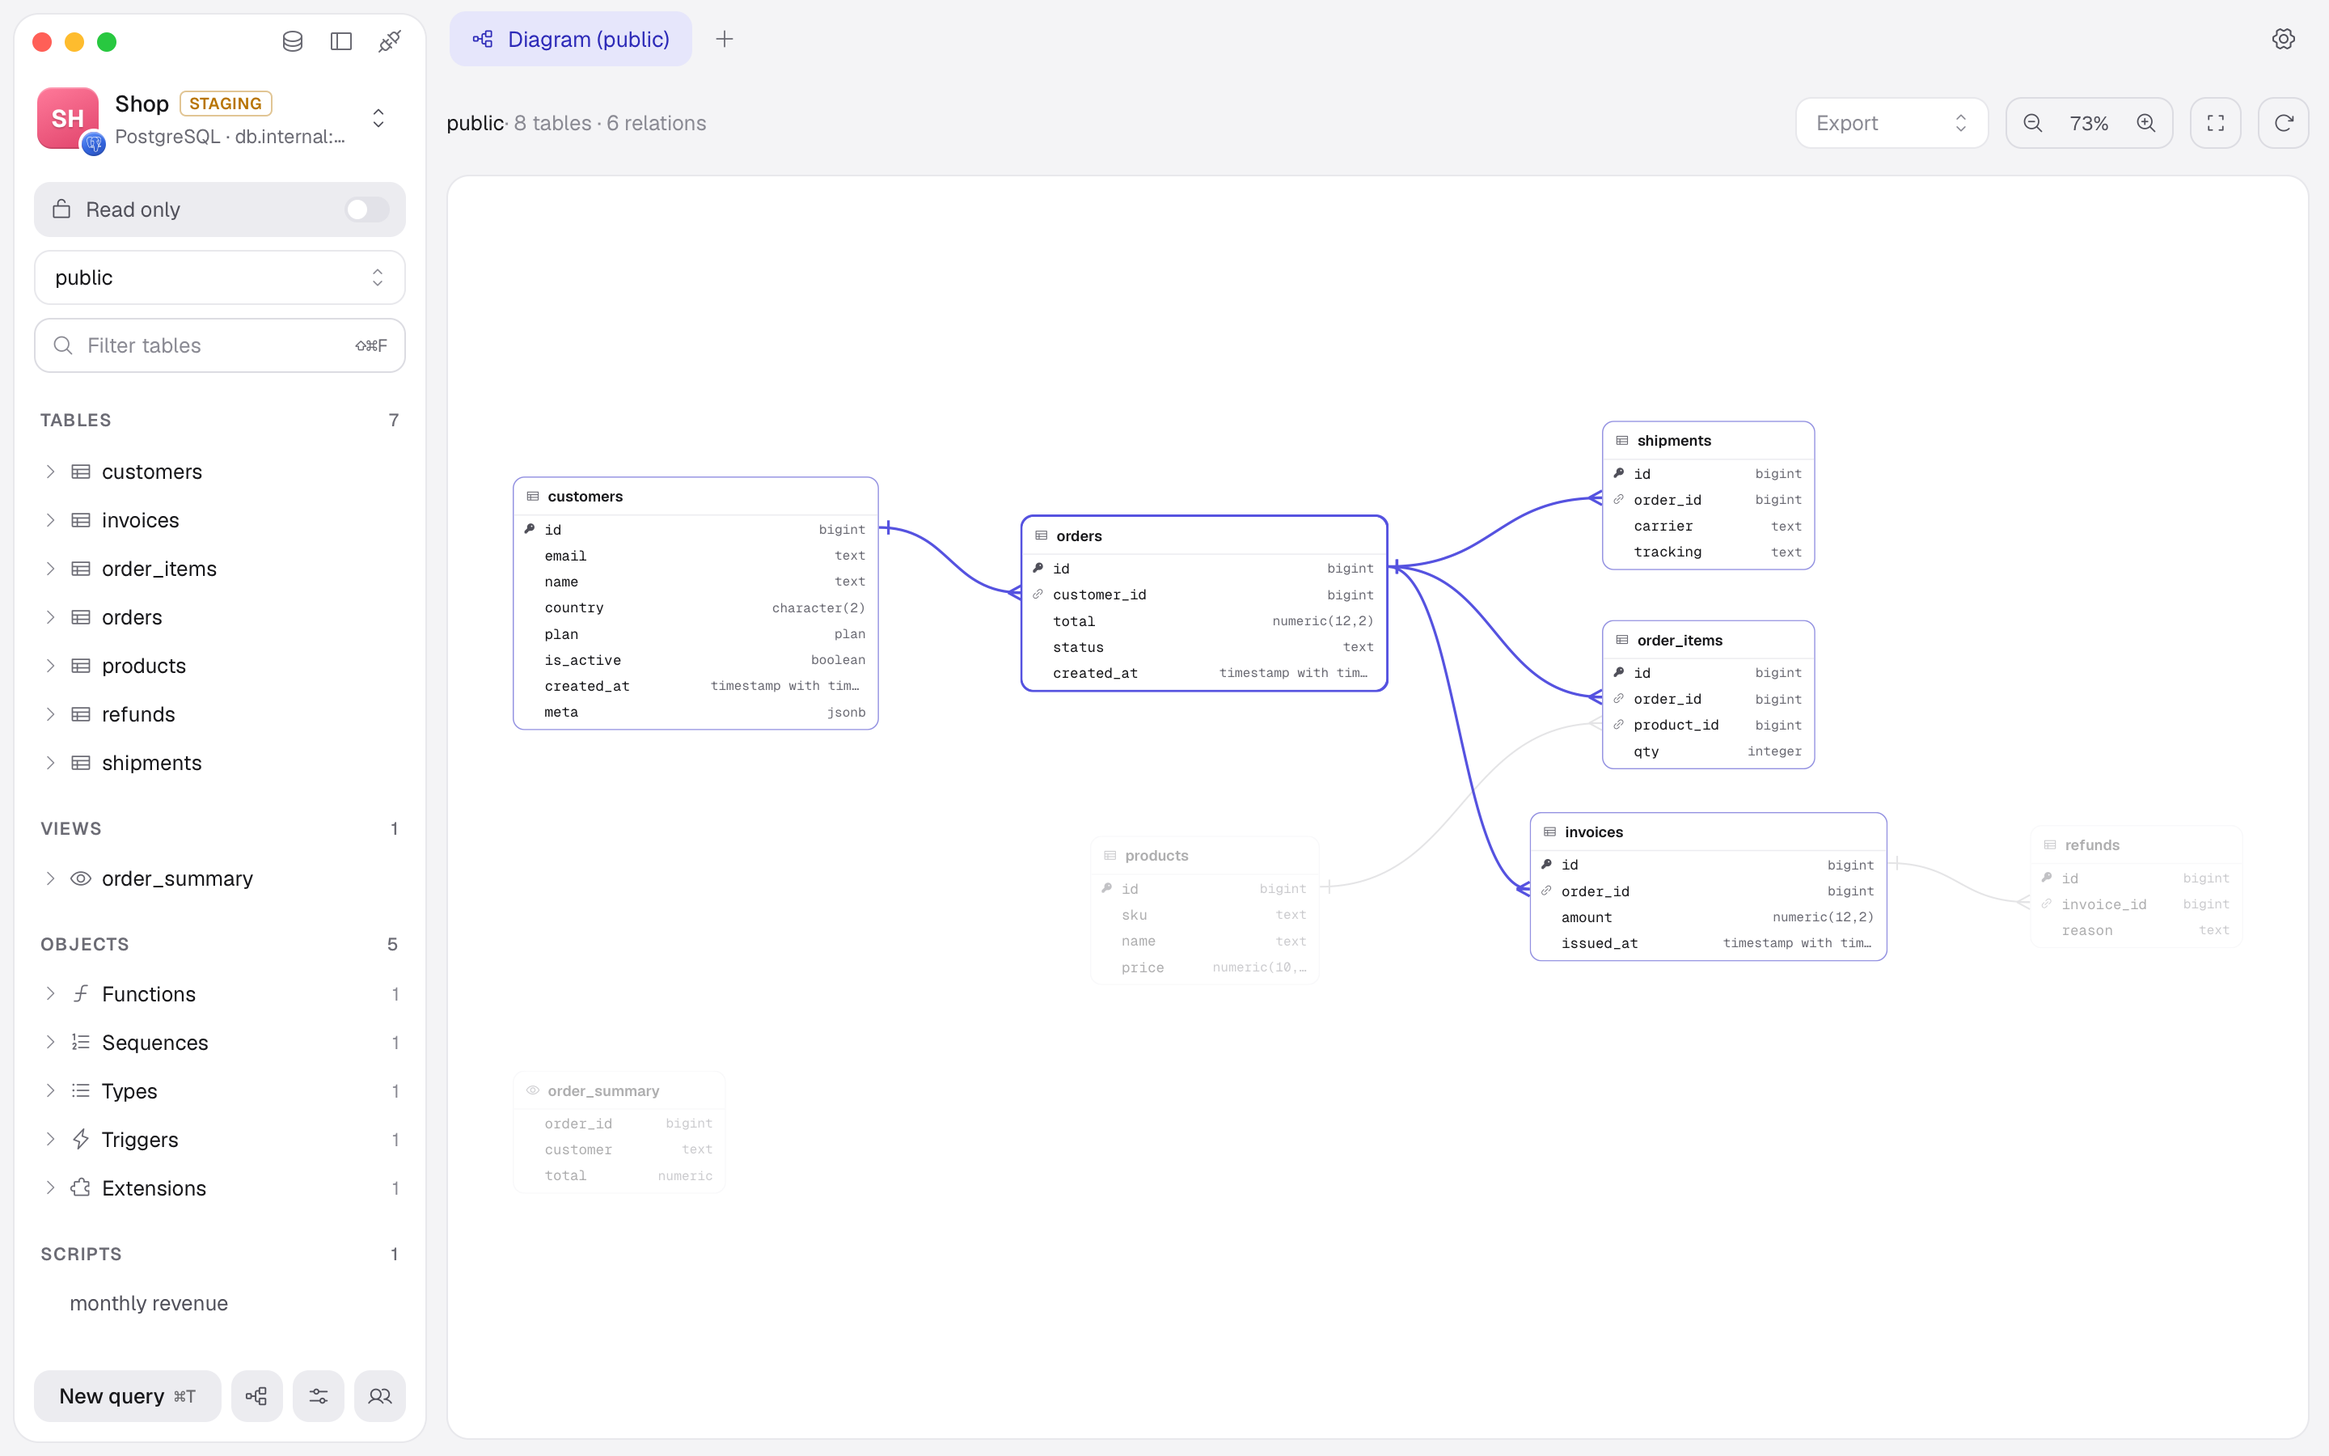
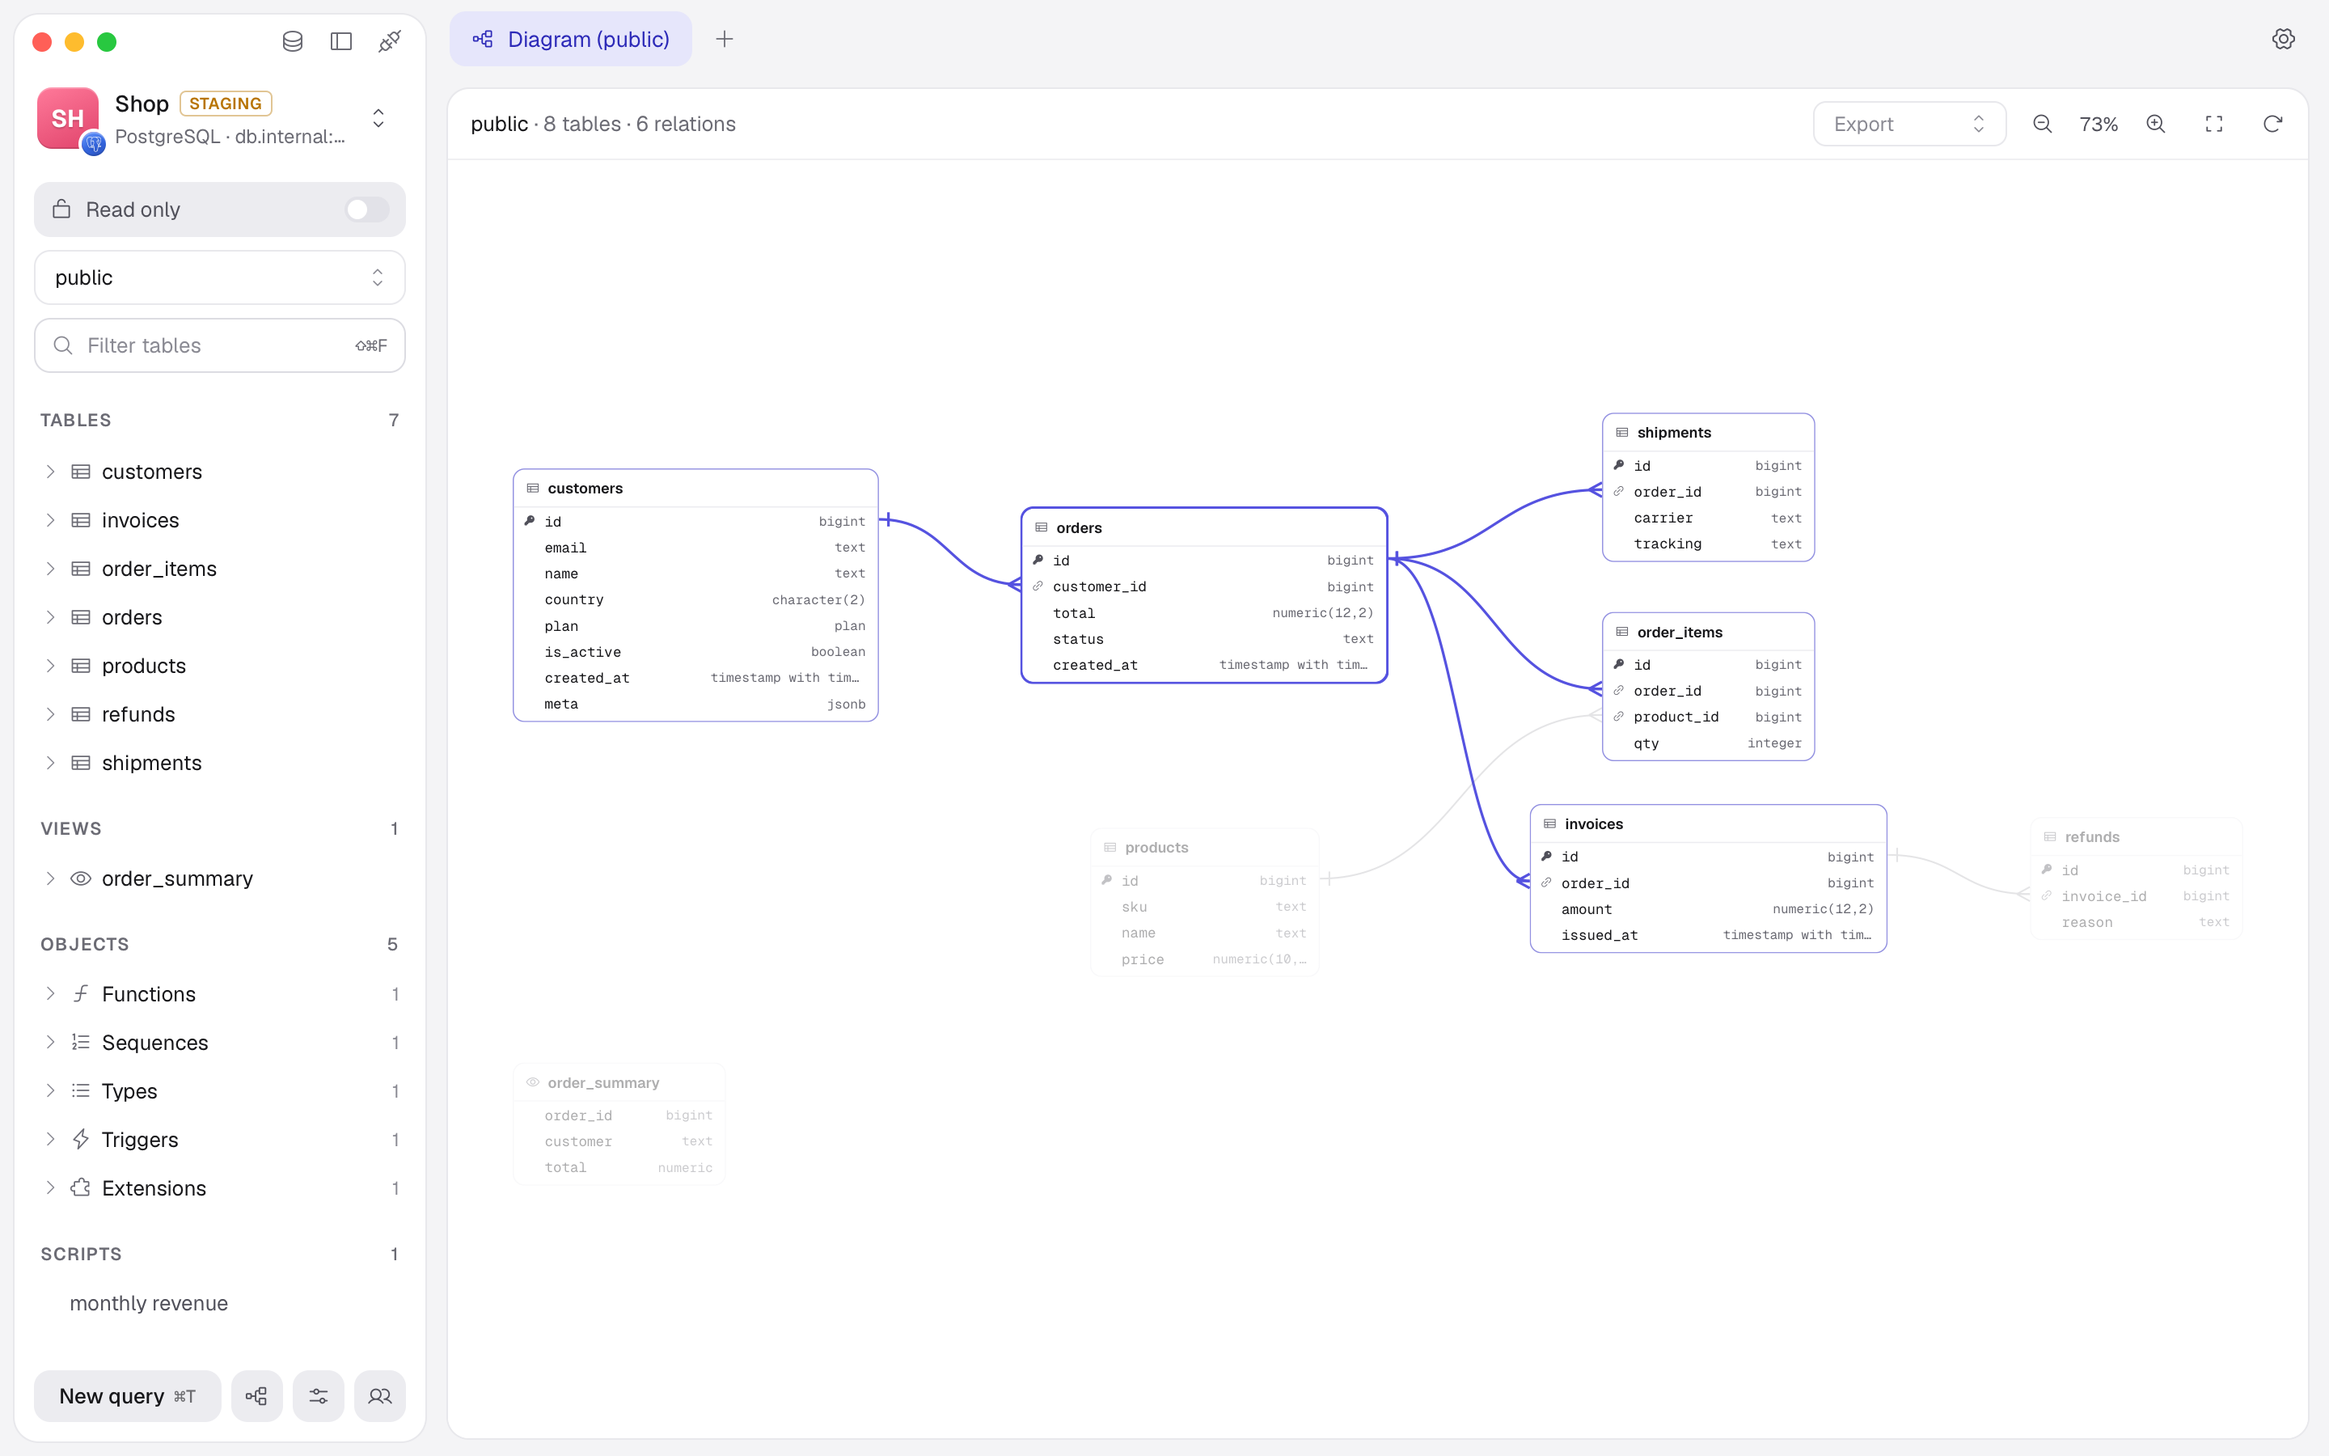
Titles and actions inside the card for DDL, diagram, config and keys
A view with one card puts its title and buttons in the card's header
instead of a row floating above it, and the table screen's rows sit
closer together. README pictures retaken.

diff --git a/apps/desktop/frontend/src/lib/admin/ConfigView.svelte b/apps/desktop/frontend/src/lib/admin/ConfigView.svelte
@@ -117,20 +117,20 @@
   untrack(start);
 </script>
 
-<div class="config">
-  <div class="pane-bar">
+<div class="config pane-card boxed">
+  <div class="pane-head">
     {#key pickerKey}<Select value={picked} {options} onchange={pick} aria-label="Configuration file" class="file-select" />{/key}
     {#if picked === OTHER}
       <form class="custom" onsubmit={e => (e.preventDefault(), guarded(() => open(customPath)))}>
         <input class="input mono" bind:value={customPath} placeholder={files[0]?.path ?? "/path/to/server.conf"} spellcheck="false" aria-label="File path" />
-        <button class="btn outline" disabled={!customPath.trim()}>Open</button>
+        <button class="btn ghost" disabled={!customPath.trim()}>Open</button>
       </form>
     {:else if loaded}
       <span class="path mono" title={loaded.path}>{loaded.path}</span>
     {/if}
     <span class="space"></span>
     {#if via}<span class="via" title={via.hint}>{via.label}</span>{/if}
-    <button class="btn outline icon" onclick={() => loaded && guarded(() => open(loaded!.path))} disabled={!loaded || loading} title="Reload from the server" aria-label="Reload"><Icon name="refresh" size={14} /></button>
+    <button class="btn ghost icon" onclick={() => loaded && guarded(() => open(loaded!.path))} disabled={!loaded || loading} title="Reload from the server" aria-label="Reload"><Icon name="refresh" size={14} /></button>
     <button class="btn primary" onclick={save} disabled={!dirty || saving || readOnly} title={loaded?.readOnly ? 'The server shows these settings but can’t change them' : readOnly ? 'Read-only is on — turn it off to save' : keys('Save and reload the server configuration (⌘S)')}>
       {#if saving}<Spinner size={12} />{/if}Save &amp; reload
     </button>
@@ -147,7 +147,7 @@
       {/each}
     </div>
   {/if}
-  <div class="body pane-card">
+  <div class="body">
     {#if loading}<LoadBar label="Loading the file" />{/if}
     {#if error}<div class="error" role="alert"><Icon name="alert" />{error}</div>{/if}
     {#if loaded}
@@ -184,15 +184,15 @@
 
 <style>
   .config { height: 100%; display: flex; flex-direction: column; min-width: 0; }
-  .pane-bar :global(.file-select) { width: 200px; flex: none; }
-  .pane-bar :global(.select-button) { height: 32px; border-radius: var(--radius); }
+  .pane-head :global(.file-select) { width: 190px; flex: none; }
+  .pane-head :global(.select-button) { height: 28px; border-radius: 8px; font-size: 12.5px; }
   .space { flex: 1; }
   .custom { display: flex; gap: 6px; flex: 1; min-width: 0; max-width: 520px; }
-  .custom .input { flex: 1; min-width: 0; height: 32px; font-size: 12.5px; }
+  .custom .input { flex: 1; min-width: 0; height: 28px; font-size: 12.5px; }
   .path { min-width: 0; overflow: hidden; color: var(--text-4); text-overflow: ellipsis; white-space: nowrap; font-size: 12.5px; }
   .via { flex: none; padding: 2px 8px; border-radius: 6px; background: var(--surface); color: var(--text-3); font-size: 12px; }
   .body { position: relative; flex: 1; min-height: 0; display: flex; flex-direction: column; }
-  .problems { flex: none; display: flex; flex-direction: column; gap: 2px; margin-top: 8px; padding: 10px 12px; border-radius: var(--radius); background: color-mix(in srgb, var(--danger) 10%, var(--surface)); font-size: 12px; }
+  .problems { flex: none; display: flex; flex-direction: column; gap: 2px; padding: 10px 14px; border-bottom: 1px solid var(--grid-line); background: color-mix(in srgb, var(--danger) 8%, var(--card)); font-size: 12px; }
   .problems strong { display: flex; align-items: center; gap: 6px; margin-bottom: 4px; color: var(--danger); font-weight: 500; }
   .problem { display: flex; gap: 10px; padding: 2px 0; border: 0; background: none; color: var(--text-2); font-size: 12px; text-align: left; cursor: pointer; }
   .problem:hover { color: var(--text); }

diff --git a/apps/desktop/frontend/src/lib/diagram/DiagramToolbar.svelte b/apps/desktop/frontend/src/lib/diagram/DiagramToolbar.svelte
@@ -35,8 +35,8 @@
   ];
 </script>
 
-<div class="pane-bar">
-  <span class="pane-title"><strong>{schema}</strong>{#if tables !== null} · {formatCount(tables, 'table')} · {formatCount(relations, 'relation')}{/if}</span>
+<div class="pane-head">
+  <span class="pane-title"><strong>{schema}</strong>{#if tables !== null}{' · '}{formatCount(tables, 'table')} · {formatCount(relations, 'relation')}{/if}</span>
   {#if tables}
     <div class="export" class:busy={exporting}>
       {#key picker}
@@ -49,17 +49,17 @@
     <span class="zoom">{Math.round(zoom * 100)}%</span>
     <button class="btn ghost icon" onclick={() => onzoom(1.2)} title="Zoom in (+)" aria-label="Zoom in"><Icon name="zoomIn" size={14} /></button>
   </div>
-  <button class="btn outline icon" onclick={onfit} title="Fit to window (0)" aria-label="Fit to window"><Icon name="fit" size={14} /></button>
-  <button class="btn outline icon" onclick={onreload} disabled={loading} title="Reload" aria-label="Reload">
+  <button class="btn ghost icon" onclick={onfit} title="Fit to window (0)" aria-label="Fit to window"><Icon name="fit" size={14} /></button>
+  <button class="btn ghost icon" onclick={onreload} disabled={loading} title="Reload" aria-label="Reload">
     {#if loading}<Spinner size={12} />{:else}<Icon name="refresh" size={14} />{/if}
   </button>
 </div>
 
 <style>
-  .zoom-group { display: flex; align-items: center; height: 32px; padding: 0 2px; border: 1px solid var(--border); border-radius: var(--radius); }
-  .zoom-group .btn { width: 28px; height: 26px; }
+  .zoom-group { display: flex; align-items: center; height: 28px; }
+  .zoom-group .btn { width: 28px; height: 28px; }
   .zoom { min-width: 42px; color: var(--text-2); font-size: 12px; text-align: center; font-variant-numeric: tabular-nums; }
   .export { width: 120px; }
-  .export :global(.select-button) { height: 32px; border-radius: var(--radius); }
+  .export :global(.select-button) { height: 28px; border-radius: 8px; font-size: 12.5px; }
   .export.busy { opacity: 0.5; pointer-events: none; }
 </style>

diff --git a/apps/desktop/frontend/src/lib/objects/DdlView.svelte b/apps/desktop/frontend/src/lib/objects/DdlView.svelte
@@ -42,14 +42,22 @@
 
 <div class="ddl">
   {#if toolbar}
-    <div class="pane-bar">
-      <span class="pane-title">{object.schema ? object.schema + '.' : ''}<strong>{object.name}</strong>{object.kind === 'function' || object.kind === 'procedure' ? `(${object.detail ?? ''})` : ''} · {object.kind}</span>
-      <button class="btn outline" onclick={copy} disabled={!text}><Icon name="copy" size={14} />Copy</button>
-      <button class="btn outline" onclick={openInQuery} disabled={!text}><Icon name="code" size={14} />Open in query</button>
-      <button class="btn outline icon" onclick={load} disabled={loading} title="Reload" aria-label="Reload">{#if loading}<Spinner size={12} />{:else}<Icon name="refresh" size={14} />{/if}</button>
-    </div>
+    <section class="pane-card boxed">
+      <div class="pane-head">
+        <span class="pane-title">{object.schema ? object.schema + '.' : ''}<strong>{object.name}</strong>{object.kind === 'function' || object.kind === 'procedure' ? `(${object.detail ?? ''})` : ''} · {object.kind}</span>
+        <button class="btn ghost" onclick={copy} disabled={!text}><Icon name="copy" size={13} />Copy</button>
+        <button class="btn ghost" onclick={openInQuery} disabled={!text}><Icon name="code" size={13} />Open in query</button>
+        <button class="btn ghost icon" onclick={load} disabled={loading} title="Reload" aria-label="Reload">{#if loading}<Spinner size={12} />{:else}<Icon name="refresh" size={13} />{/if}</button>
+      </div>
+      {@render content()}
+    </section>
+  {:else}
+    {@render content()}
   {/if}
-  <div class="body" class:pane-card={toolbar}>
+</div>
+
+{#snippet content()}
+  <div class="body">
     {#if loading}<LoadBar label="Loading the DDL" />{/if}
     {#if error}
       <div class="error" role="alert"><Icon name="alert" />{error}</div>
@@ -57,7 +65,7 @@
       <SqlView {text} {dialect} />
     {/if}
   </div>
-</div>
+{/snippet}
 
 <style>
   .ddl { height: 100%; display: flex; flex-direction: column; min-width: 0; }

diff --git a/apps/desktop/frontend/src/lib/keys/KeyView.svelte b/apps/desktop/frontend/src/lib/keys/KeyView.svelte
@@ -78,9 +78,9 @@
   );
 </script>
 
-<div class="view">
+<div class="view pane-card boxed">
   {#if loading}<LoadBar />{/if}
-  <div class="pane-bar">
+  <div class="pane-head">
     {#if value}<span class="type t-{value.type}">{TYPE_LABEL[value.type] ?? value.type.toUpperCase()}</span>{/if}
     <span class="name mono" title={tab.key.name}>{tab.key.name}</span>
     <button class="btn icon ghost" onclick={() => copyToClipboard(tab.key.name)} title="Copy key name" aria-label="Copy key name"><Icon name="copy" size={13} /></button>
@@ -90,10 +90,10 @@
       <span class="meta faint" title="Time to live">TTL {formatTTL(value.ttl)}</span>
       <KeyActions {ws} {tab} ttl={value.ttl} onchange={change} />
     {/if}
-    <button class="btn outline icon" onclick={() => load()} title={keys('Refresh (⌘R)')} aria-label="Refresh"><Icon name="refresh" size={14} /></button>
+    <button class="btn ghost icon" onclick={() => load()} title={keys('Refresh (⌘R)')} aria-label="Refresh"><Icon name="refresh" size={14} /></button>
   </div>
 
-  <div class="pane-card body">
+  <div class="body">
   {#if error}
     <div class="error">{error}</div>
   {:else if value?.type === 'string'}

diff --git a/apps/desktop/frontend/src/app.css b/apps/desktop/frontend/src/app.css
@@ -128,3 +128,8 @@ input[type='checkbox'], input[type='radio'] { accent-color: var(--accent); }
 .pane-title { flex: 1 1 auto; min-width: 0; overflow: hidden; color: var(--text-4); text-overflow: ellipsis; white-space: nowrap; }
 .pane-title strong { color: var(--text); font-weight: 400; }
 .pane-card { position: relative; flex: 1; min-height: 0; margin-top: 10px; border: 1px solid var(--border-subtle); border-radius: var(--radius-lg); background: var(--card); overflow: hidden; }
+.pane-head { flex: none; display: flex; align-items: center; gap: 8px; height: 44px; padding: 0 8px 0 14px; border-bottom: 1px solid var(--grid-line); min-width: 0; }
+.pane-head .pane-title { color: var(--text-3); font-size: 13px; }
+.pane-head .btn { height: 28px; padding: 0 10px; border-radius: 8px; font-size: 12.5px; }
+.pane-head .btn.icon { width: 28px; padding: 0; }
+.pane-card.boxed { display: flex; flex-direction: column; margin-top: 6px; height: calc(100% - 6px) !important; }

diff --git a/apps/desktop/frontend/src/lib/keys/KeyActions.svelte b/apps/desktop/frontend/src/lib/keys/KeyActions.svelte
@@ -44,9 +44,9 @@
 </script>
 
 {#if !ws.readOnly}
-  <button class="btn outline" onclick={() => (asking = 'ttl')} title="Set when the key expires"><Icon name="timer" size={14} />TTL</button>
-  <button class="btn outline" onclick={() => (asking = 'rename')} disabled={tab.key.key !== tab.key.name}><Icon name="pencil" size={14} />Rename</button>
-  <button class="btn outline danger" onclick={() => (asking = 'delete')}><Icon name="trash" size={14} />Delete</button>
+  <button class="btn ghost" onclick={() => (asking = 'ttl')} title="Set when the key expires"><Icon name="timer" size={13} />TTL</button>
+  <button class="btn ghost" onclick={() => (asking = 'rename')} disabled={tab.key.key !== tab.key.name}><Icon name="pencil" size={13} />Rename</button>
+  <button class="btn ghost danger" onclick={() => (asking = 'delete')}><Icon name="trash" size={13} />Delete</button>
 {/if}
 
 {#if asking === 'ttl'}

diff --git a/apps/desktop/frontend/src/lib/table/TableToolbar.svelte b/apps/desktop/frontend/src/lib/table/TableToolbar.svelte
@@ -63,7 +63,7 @@
 </div>
 
 <style>
-  .toolbar { flex: none; display: flex; align-items: center; gap: 10px; height: 44px; margin-top: 6px; min-width: 0; overflow: hidden; }
+  .toolbar { flex: none; display: flex; align-items: center; gap: 10px; height: 40px; margin-top: 2px; min-width: 0; overflow: hidden; }
   .title { flex: 1 1 auto; min-width: 0; overflow: hidden; color: var(--text-4); text-overflow: ellipsis; white-space: nowrap; }
   .name { color: var(--text); }
   .primary .kbd { background: transparent; color: inherit; opacity: 0.8; padding: 0; }

diff --git a/apps/desktop/frontend/src/lib/diagram/DiagramView.svelte b/apps/desktop/frontend/src/lib/diagram/DiagramView.svelte
@@ -173,7 +173,7 @@
 
 </script>
 
-<div class="view">
+<div class="view pane-card boxed">
   <DiagramToolbar
     schema={tab.schema}
     tables={diagram?.tables.length ?? null}
@@ -189,7 +189,7 @@
 
   <!-- svelte-ignore a11y_no_noninteractive_tabindex, a11y_click_events_have_key_events, a11y_no_static_element_interactions -->
   <div
-    class="canvas pane-card"
+    class="canvas"
     bind:this={canvas}
     bind:clientWidth={width}
     bind:clientHeight={height}

diff --git a/apps/desktop/frontend/src/lib/table/WhereBar.svelte b/apps/desktop/frontend/src/lib/table/WhereBar.svelte
@@ -50,7 +50,7 @@
 </div>
 
 <style>
-  .where { flex: none; margin-top: 8px; }
+  .where { flex: none; margin-top: 6px; }
   .field { display: flex; align-items: center; gap: 10px; height: 38px; padding: 0 4px 0 12px; border: 1px solid var(--hover); border-radius: var(--radius); background: var(--surface); }
   .field:focus-within { border-color: var(--focus-border); }
   .kw { flex: none; font-family: var(--font-mono); font-size: 12.5px; color: var(--text-4); }

diff --git a/apps/desktop/frontend/src/lib/table/TableGrid.svelte b/apps/desktop/frontend/src/lib/table/TableGrid.svelte
@@ -277,6 +277,6 @@
 {/if}
 
 <style>
-  .body { flex: 1; min-height: 0; display: flex; gap: 10px; margin-top: 10px; }
+  .body { flex: 1; min-height: 0; display: flex; gap: 10px; margin-top: 8px; }
   .grid-area { flex: 1; min-width: 0; position: relative; border: 1px solid var(--border-subtle); border-radius: var(--radius-lg); background: var(--card); overflow: hidden; }
 </style>
